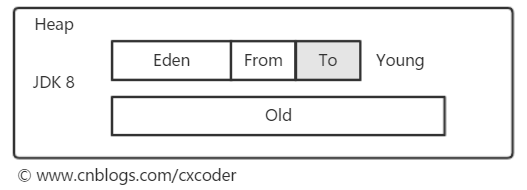
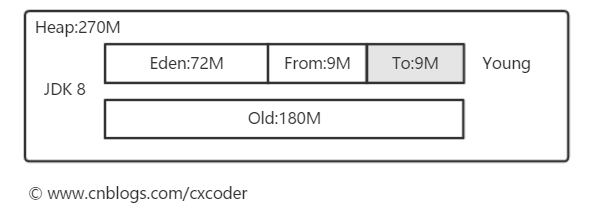
memory

Changed region(s): [[0.0, 0.0263, 1.0, 0.8421], [0.0304, 0.8684, 0.4554, 0.9737]]

diff --git a/JVM/JVM 内存管理.md b/JVM/JVM 内存管理.md
@@ -80,12 +80,17 @@ Hotspot JVM 提供了多个垃圾收集器让分代收集器组合使用：
 ### 64位JVM 默认配置，以JDK 8为例
 
 
-使用命令`java -XX:+PrintFlagsFinal -version`或者`jmap -heap <pid>`可以查看默认配置。
+命令`java -XX:+PrintFlagsFinal -version`或者`jmap -heap <pid>`可以查看默认配置。
 
 
-JVM堆最小为物理内存的 1/64，64位至少2G，即最小32M；最大为物理内存的 1/4，如128G内存，默认JVM最大32G，可以使用`-Xms`和`-Xmx`指定初始和最大大小。年轻代默认比例为`-XX:NewRatio=2`，即占总堆的 1/3，Survivor空间比例为`-XX:SurvivorRatio=8`，即每个Survivor占Eden的 1/8，因为有两个，所以占年轻代的 1/10。
+JVM堆最小为物理内存的 1/64；最大为物理内存的 1/4。可以使用`-Xms`和`-Xmx`指定初始和最大大小。年轻代默认比例为`-XX:NewRatio=2`，即占总堆的 1/3，Survivor空间比例为`-XX:SurvivorRatio=8`，即每个Survivor占Eden的 1/8，因为有两个，所以占年轻代的 1/10。
 
-JDK 8 默认垃圾收集器是ParallelOldGC，其默认打开AdaptiveSizePolicy，自适应调整各种参数，需要手动指定`-XX:SurvivorRatio=8`才能让这个配置生效。比如指定堆大小为270M，那么个区域大小如下：
+JDK 8 默认垃圾收集器是ParallelOldGC，如果直接观察各区大小，计算会有出入，这是因为 Parallel Scavenge 默认打开AdaptiveSizePolicy，自适应调整各种参数，此时需要手动指定`-XX:SurvivorRatio=8`才能得到准确的结果。比如指定堆大小为270M，那么个区域大小如下：
+
+
+
+### GC roots的回收
+
 
 
 

diff --git a/README.md b/README.md
@@ -7,10 +7,12 @@
 ## 目录
 
 - JVM
+
  - [JVM 体系结构](https://github.com/cxcoder/blog/blob/master/JVM/JVM%20%E4%BD%93%E7%B3%BB%E7%BB%93%E6%9E%84.md)
  - [JVM 内存管理](https://github.com/cxcoder/blog/blob/master/JVM/JVM%20%E5%86%85%E5%AD%98%E7%AE%A1%E7%90%86.md)
 
 
 - Computer
+
  - [字符集和字符编码](https://github.com/cxcoder/blog/blob/master/Computer/%E5%AD%97%E7%AC%A6%E9%9B%86%E5%92%8C%E5%AD%97%E7%AC%A6%E7%BC%96%E7%A0%81.md)
  - [如何理解Java程序使用Unicode字符集编写](https://github.com/cxcoder/blog/blob/master/Computer/%E5%A6%82%E4%BD%95%E7%90%86%E8%A7%A3Java%E7%A8%8B%E5%BA%8F%E4%BD%BF%E7%94%A8Unicode%E5%AD%97%E7%AC%A6%E9%9B%86%E7%BC%96%E5%86%99.md)
